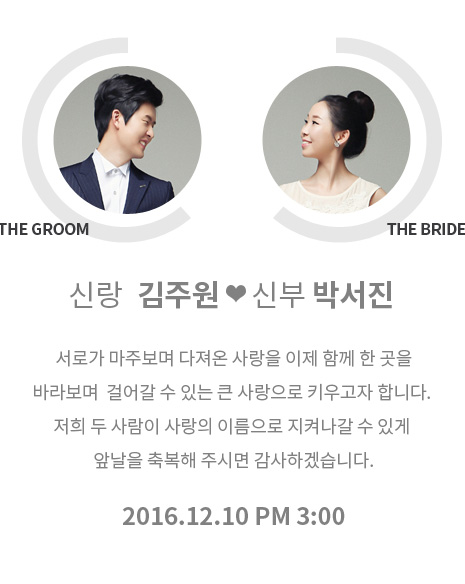
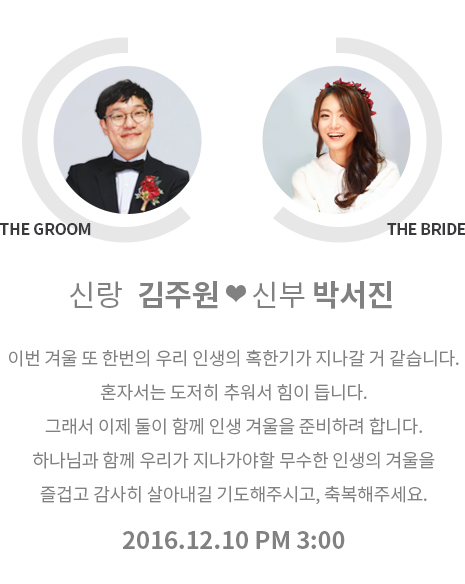
서진누나청첩장 - 사진교체 완료 1. 부모님 전화 사진 변경해야함. 2. 마우스오버 구현해야 함. 3. 카카오톡, 밴드 공유하기 구현해야 함 4. 맨 위에 사진은 둘째치고, Wedding 글씨가 잘림

diff --git a/home/templates/home/psjwedding/w_3.html b/home/templates/home/psjwedding/w_3.html
@@ -19,8 +19,9 @@ body {
 .wrap_3 .bg {
 }
 .wrap_3 .bg img{width:100%;} 
-.photo{ width:580px; height:466px; }
+.photo{ width:580px; height:466px;}
 .photo img{ width:100%;}
+#photo {margin-left: -3px;}
 .thum{  margin-top:37px; height:130px;}
 .thum img {	width:100%;}
 </style>
@@ -50,40 +51,40 @@ body {
       <!-- Wrapper for slides -->
       <div class="carousel-inner" role="listbox">
         <div label=0 id="photo" class="item active">
-          <img src="{% static 'img/wedding-images/w_3/img_2.jpg' %}">
+          <img src="{% static 'img/wedding-images/w_3/img_01.jpg' %}">
         </div>
         <div label=1 id="photo" class="item">
-          <img src="{% static 'img/wedding-images/w_3/out_2.jpg' %}">
+          <img src="{% static 'img/wedding-images/w_3/img_02.jpg' %}">
         </div>
         <div label=2 id="photo" class="item">
-          <img src="{% static 'img/wedding-images/w_3/out_3.jpg' %}">
+          <img src="{% static 'img/wedding-images/w_3/img_03.jpg' %}">
         </div>
         <div label=3 id="photo" class="item">
-          <img src="{% static 'img/wedding-images/w_3/out_4.jpg' %}">
+          <img src="{% static 'img/wedding-images/w_3/img_04.jpg' %}">
         </div>
         <div label=4 id="photo" class="item">
-          <img src="{% static 'img/wedding-images/w_3/img_2.jpg' %}">
+          <img src="{% static 'img/wedding-images/w_3/img_05.jpg' %}">
         </div>
         <div label=5 id="photo" class="item">
-          <img src="{% static 'img/wedding-images/w_3/out_2.jpg' %}">
+          <img src="{% static 'img/wedding-images/w_3/img_06.jpg' %}">
         </div>
         <div label=6 id="photo" class="item">
-          <img src="{% static 'img/wedding-images/w_3/out_3.jpg' %}">
+          <img src="{% static 'img/wedding-images/w_3/img_07.jpg' %}">
         </div>
         <div label=7 id="photo" class="item">
-          <img src="{% static 'img/wedding-images/w_3/out_4.jpg' %}">
+          <img src="{% static 'img/wedding-images/w_3/img_08.jpg' %}">
         </div>
         <div label=8 id="photo" class="item">
-          <img src="{% static 'img/wedding-images/w_3/img_2.jpg' %}">
+          <img src="{% static 'img/wedding-images/w_3/img_09.jpg' %}">
         </div>
         <div label=9 id="photo" class="item">
-          <img src="{% static 'img/wedding-images/w_3/out_2.jpg' %}">
+          <img src="{% static 'img/wedding-images/w_3/img_10.jpg' %}">
         </div>
         <div label=10 id="photo" class="item">
-          <img src="{% static 'img/wedding-images/w_3/out_3.jpg' %}">
+          <img src="{% static 'img/wedding-images/w_3/img_11.jpg' %}">
         </div>
         <div label=11 id="photo" class="item">
-          <img src="{% static 'img/wedding-images/w_3/out_4.jpg' %}">
+          <img src="{% static 'img/wedding-images/w_3/img_12.jpg' %}">
         </div>
       </div>
 
@@ -110,26 +111,26 @@ body {
  -->   
     <div id="thum_div" style="margin-top:20px;">
       <center>
-          <img id="thum_img" label="0" src="{% static 'img/wedding-images/w_3/out_1.jpg' %}" />&nbsp;
-          <img id="thum_img" label="1" src="{% static 'img/wedding-images/w_3/out_2.jpg' %}" />&nbsp;
-          <img id="thum_img" label="2" src="{% static 'img/wedding-images/w_3/out_3.jpg' %}" />&nbsp;
-          <img id="thum_img" label="3" src="{% static 'img/wedding-images/w_3/out_4.jpg' %}" />
+          <img id="thum_img" label="0" src="{% static 'img/wedding-images/w_3/out_01.jpg' %}" />&nbsp;
+          <img id="thum_img" label="1" src="{% static 'img/wedding-images/w_3/out_02.jpg' %}" />&nbsp;
+          <img id="thum_img" label="2" src="{% static 'img/wedding-images/w_3/out_03.jpg' %}" />&nbsp;
+          <img id="thum_img" label="3" src="{% static 'img/wedding-images/w_3/out_04.jpg' %}" />
       </center>
     </div>
     <div id="thum_div" style="margin-top:20px;">
       <center>
-          <img id="thum_img" label="4" src="{% static 'img/wedding-images/w_3/out_1.jpg' %}" />&nbsp;
-          <img id="thum_img" label="5" src="{% static 'img/wedding-images/w_3/out_2.jpg' %}" />&nbsp;
-          <img id="thum_img" label="6" src="{% static 'img/wedding-images/w_3/out_3.jpg' %}" />&nbsp;
-          <img id="thum_img" label="7" src="{% static 'img/wedding-images/w_3/out_4.jpg' %}" />
+          <img id="thum_img" label="4" src="{% static 'img/wedding-images/w_3/out_05.jpg' %}" />&nbsp;
+          <img id="thum_img" label="5" src="{% static 'img/wedding-images/w_3/out_06.jpg' %}" />&nbsp;
+          <img id="thum_img" label="6" src="{% static 'img/wedding-images/w_3/out_07.jpg' %}" />&nbsp;
+          <img id="thum_img" label="7" src="{% static 'img/wedding-images/w_3/out_08.jpg' %}" />
       </center>
     </div>
     <div id="thum_div" style="margin-top:20px;">
       <center>
-          <img id="thum_img" label="8" src="{% static 'img/wedding-images/w_3/out_1.jpg' %}" />&nbsp;
-          <img id="thum_img" label="9" src="{% static 'img/wedding-images/w_3/out_2.jpg' %}" />&nbsp;
-          <img id="thum_img" label="10" src="{% static 'img/wedding-images/w_3/out_3.jpg' %}" />&nbsp;
-          <img id="thum_img" label="11" src="{% static 'img/wedding-images/w_3/out_4.jpg' %}" />
+          <img id="thum_img" label="8" src="{% static 'img/wedding-images/w_3/out_09.jpg' %}" />&nbsp;
+          <img id="thum_img" label="9" src="{% static 'img/wedding-images/w_3/out_10.jpg' %}" />&nbsp;
+          <img id="thum_img" label="10" src="{% static 'img/wedding-images/w_3/out_11.jpg' %}" />&nbsp;
+          <img id="thum_img" label="11" src="{% static 'img/wedding-images/w_3/out_12.jpg' %}" />
       </center>
     </div>
     

diff --git a/home/templates/home/psjwedding/w_2.html b/home/templates/home/psjwedding/w_2.html
@@ -32,10 +32,10 @@ body {
 }
 .call2Sub div{
 	width:90px;
-	display:inline-block; 
+	display:inline-block;
 	text-align:center;
 	font-size:1.5em;
-	color:#666;
+	color:#666;z
 }
 .name2{ margin-left:78px; height:18px; margin-top:9px;}
 .con2{ position:relative;}
@@ -57,43 +57,85 @@ body {
 <div class="wrap_2">
 <div class="w_2">
 	<div class="top2"><img src="{% static 'img/wedding-images/w_2/img_1.jpg' %}" /></div>
-    <div class="pic"><img src="{% static 'img/wedding-images/w_2/img_2.jpg' %}" /></div>
+    <div class="pic"><img src="{% static 'img/wedding-images/w_2/aboutus_main.png' %}" /></div>
 	<div class="title2">
     	<div><img src="{% static 'img/wedding-images/w_2/img_3.jpg' %}" /></div><div><img src="{% static 'img/wedding-images/w_2/img_4.jpg' %}" /></div>
     </div>
     <div class="call2">
 		<div class="call2Sub">
 			<div>
-				<img src="{% static 'img/wedding-images/w_2/call_over_2.jpg' %}" /><br>
-				강명국
+                <a href = "tel:010-8006-4324">
+				    <img src="{% static 'img/wedding-images/w_2/call_over_2.jpg' %}" /><br>
+				    김명국
+                </a>
 			</div>
 			<div>
-				<img src="{% static 'img/wedding-images/w_2/call_out_1.jpg' %}" /><br>
-				<img src="{% static 'img/wedding-images/w_2/name.jpg' %}" />
+                <a href = "tel:010-2493-9635">
+				    <img src="{% static 'img/wedding-images/w_2/call_out_1.jpg' %}" /><br>
+				    김명순
+                </a>
 			</div>
 		</div><div class="call2Sub">
 			<div>
-				<img src="{% static 'img/wedding-images/w_2/call_out_2.jpg' %}" /><br>
-				<img src="{% static 'img/wedding-images/w_2/name.jpg' %}" />
+                <a href = "tel:010-4852-2050">
+				    <img src="{% static 'img/wedding-images/w_2/call_out_03.jpg' %}" /> <br>
+				    박영규
+                </a>
 			</div>
 			<div>
-				<img src="{% static 'img/wedding-images/w_2/call_out_1.jpg' %}" /><br>
-				<img src="{% static 'img/wedding-images/w_2/name.jpg' %}" />
+                <a href = "tel:010-3372-6512">
+				    <img src="{% static 'img/wedding-images/w_2/call_out_04.jpg' %}" /><br>
+				    강필선
+                </a>
 			</div>
 		</div>
     </div>
 
     <div class="con2">
     	<div class="icon">
-    		<div style="margin-left:18px;"><img src="{% static 'img/wedding-images/w_2/icon_mail.jpg' %}" /></div>
-        	<div style=" margin-top:30px;"><img src="{% static 'img/wedding-images/w_2/icon_call.jpg' %}" /></div>
-        	<div style="margin-left:7px; margin-top:29px;"><img src="{% static 'img/wedding-images/w_2/icon_talk.jpg' %}" /></div>
+    		<div style="margin-left:18px;">
+                <a href="mailto:alphalotus@me.com">
+                    <img src="{% static 'img/wedding-images/w_2/icon_mail.jpg' %}" />
+                </a>
+            </div>
+
+        	<div style=" margin-top:30px;">
+                <a href = "tel:010-2688-4973">
+                    <img src="{% static 'img/wedding-images/w_2/icon_call.jpg' %}" />
+                </a>
+            </div>
+
+        	<div style="margin-left:7px; margin-top:29px;">
+                <a href="sms:010-2688-4973">
+                    <img src="{% static 'img/wedding-images/w_2/icon_talk.jpg' %}" />
+                </a>
+            </div>
     	</div>
+
+
+
         <div class="hi2"><img src="{% static 'img/wedding-images/w_2/img_5.jpg' %}" /></div>
+        
+
+
         <div class="icon2">
-    		<div><img src="{% static 'img/wedding-images/w_2/icon_mail.jpg' %}" /></div>
-        	<div style=" margin-left:16px; margin-top:30px;"><img src="{% static 'img/wedding-images/w_2/icon_call2.jpg' %}" /></div>
-        	<div style="margin-left:8px; margin-top:32px;"><img src="{% static 'img/wedding-images/w_2/icon_talk2.jpg' %}" /></div>
+    		<div>
+                <a href="mailto:sjining@daum.net">
+                    <img src="{% static 'img/wedding-images/w_2/icon_mail.jpg' %}" />
+                </a>
+            </div>
+
+        	<div style=" margin-left:16px; margin-top:30px;">
+                <a href = "tel:010-9270-0916">
+                    <img src="{% static 'img/wedding-images/w_2/icon_call2.jpg' %}" />
+                </a>
+            </div>
+
+        	<div style="margin-left:8px; margin-top:32px;">
+                <a href="sms:010-9270-0916">
+                    <img src="{% static 'img/wedding-images/w_2/icon_talk2.jpg' %}" />
+                </a>
+            </div>
     	</div>
     </div>
 </div>

diff --git a/home/templates/home/psjwedding/w_1.html b/home/templates/home/psjwedding/w_1.html
@@ -15,11 +15,13 @@ body {
 	margin-right: 0px;
 	margin-bottom: 0px;
 }
+#photo {width:636px;margin-left: -3px;}
 .wrap_1{ width:100%; min-height:100%; position:relative;}
-.wrap_1 .bg {
+
+.wrap_1 .bg { height: 1100px;
 }
-.wrap_1 .bg img{width:100%;}  
-.w_1{ position:absolute;left:0; top:0;min-width:375px;  width:100%; height:1136px; z-index:10}
+.wrap_1 .bg img{width:100%; height: 1100px}  
+.w_1{ position:absolute;left:0; top:0;min-width:375px;  width:100%; height:1050px; z-index:10}
 .top{ position:absolute;width:calc(100% - 60px); height:66px; margin-top:32px; margin-left:30px; border:1px }
 .day{ width:146px; height:145px; }
 .day img{ width:100%;}
@@ -45,8 +47,8 @@ body {
 
 <!--  w_1 -->
 <div class="wrap_1">
-	<div class="top">
-    	<div style="float:left; height:66px;"><img src="{% static 'img/wedding-images/w_1/img_1.png' %}" /></div>
+	<div class="top" >
+    	<div style="float:left; height:66px;margin-top: 500px;"><img src="{% static 'img/wedding-images/w_1/img_1.png' %}" /></div>
         <div style=" float:right;margin-left:10px; height:66px;"><img src="{% static 'img/wedding-images/w_1/img_3.png' %}" /></div>
         <div style=" float:right; height:66px;"><img src="{% static 'img/wedding-images/w_1/img_2.png' %}" /></div>
    </div>
@@ -58,17 +60,56 @@ body {
 
 	   <div class="time"><img src="{% static 'img/wedding-images/w_1/img_5.png' %}" /></div>  
 	   <div class="weather"><img src="{% static 'img/wedding-images/w_1/img_6.png' %}" /></div>  
-	   <div class="btn">
+<!-- 	   <div class="btn">
 			<a href=""><img src="{% static 'img/wedding-images/w_1/over.png' %}" /></a>
 			<a href=""><img src="{% static 'img/wedding-images/w_1/out.png' %}" /></a>
 			<a href=""><img src="{% static 'img/wedding-images/w_1/out.png' %}" /></a>
 			<a href=""><img src="{% static 'img/wedding-images/w_1/out.png' %}" /></a>
 			<a href=""><img src="{% static 'img/wedding-images/w_1/out.png' %}" /></a>
-	   </div>
+	   </div> -->
 
    </div>
- <div class="bg"><img src="{% static 'img/wedding-images/w_1/bg.jpg' %}"></div>
+ <!-- <div class="bg"><img src="{% static 'img/wedding-images/w_1/bg.jpg' %}"></div> -->
+
+ <div id="carousel-example-generic" class="carousel slide" data-ride="carousel">
+      <!-- Indicators -->
+      <ol class="carousel-indicators">
+        <li data-target="#carousel-example-generic" data-slide-to="0" class="active"></li>
+        <li data-target="#carousel-example-generic" data-slide-to="1"></li>
+        <li data-target="#carousel-example-generic" data-slide-to="2"></li>
+        <li data-target="#carousel-example-generic" data-slide-to="3"></li>
+      </ol>
+
+      <!-- Wrapper for slides -->
+      <div class="carousel-inner bg" role="listbox">
+        <div label=0 id="photo" class="item active">
+          <img src="{% static 'img/wedding-images/w_1/main_01.jpg' %}">
+        </div>
+        <div label=1 id="photo" class="item">
+          <img src="{% static 'img/wedding-images/w_1/main_02.jpg' %}">
+        </div>
+        <div label=2 id="photo" class="item">
+          <img src="{% static 'img/wedding-images/w_1/main_03.jpg' %}">
+        </div>
+        <div label=3 id="photo" class="item">
+          <img src="{% static 'img/wedding-images/w_1/main_04.jpg' %}">
+        </div>
+      </div>
+
+      <!-- Controls -->
+      <a class="carousel-control left" href="#carousel-example-generic" role="button" data-slide="prev">
+        <span class="glyphicon glyphicon-chevron-left" aria-hidden="true"></span>
+        <span class="sr-only">Previous</span>
+      </a>
+      <a class="carousel-control right" href="#carousel-example-generic" role="button" data-slide="next">
+        <span class="glyphicon glyphicon-chevron-right" aria-hidden="true"></span>
+        <span class="sr-only">Next</span>
+      </a>
+</div>
+
+
  <div style="clear:both"></div>
+
 </div>  
 
 <script src="{% static 'js/jquery.js' %}"></script>

diff --git a/home/templates/home/psjwedding/w_6.html b/home/templates/home/psjwedding/w_6.html
@@ -17,7 +17,7 @@ body {
 	margin-bottom: 0px;
 }
 .wrap_6{ position:relative; min-height:100%; }
-.w_6{   position:absolute;left:0;top:0; margin:0 30px; width:calc(100% - 60px); height:836px; }
+.w_6{   position:absolute;left:0;top:0; margin:0 30px; width:calc(100% - 60px); height:1200px; }
 .top6{}
 .top6 img{ width:100%;}
 .sns{  margin-top:40px; margin-left: 80px;} 
@@ -31,7 +31,7 @@ body {
 <!--  w_6 -->
 <div class="wrap_6">
 <div class="w_6">
-	<div class="top6"><img src="{% static 'img/wedding-images/w_6/img_1.jpg' %}" /></div>
+	<div class="top6"><img src="{% static 'img/wedding-images/w_6/img_thankyou.jpg' %}" /></div>
 	<div class="sns">
     	<div style="float:left; "><img onclick="facebook_share()" style="cursor: pointer;" src="{% static 'img/wedding-images/w_6/sns_1.jpg' %}" /></div>
         <div style="float:left; margin-left:10px"><img onclick="twitter_share()" style="cursor: pointer;" src="{% static 'img/wedding-images/w_6/sns_2.jpg' %}" /></div>
@@ -40,11 +40,12 @@ body {
         <div style="float:left; margin-left:10px""><img src="{% static 'img/wedding-images/w_6/sns_5.jpg' %}" /></div>
         
     </div>
+    <div class="footer" style="margin-top:200px; position:relative;"><img src="{% static 'img/wedding-images/w_6/footer.jpg' %}" /></div>
 	
 </div>
 </div> 
 
-<div class="footer"><img src="{% static 'img/wedding-images/w_6/footer.jpg' %}" /></div>
+
    
 <script>
 function facebook_share(){

diff --git a/home/templates/home/psjwedding/wedding.html b/home/templates/home/psjwedding/wedding.html
@@ -20,12 +20,12 @@ body {
 <body>
 
 
-<iframe src="{% url 'w_1' %}" width="100%" height="1070" scrolling="no" frameborder="0"></iframe>
+<iframe src="{% url 'w_1' %}" width="100%" height="1200" scrolling="no" frameborder="0"></iframe>
 <iframe src="{% url 'w_2' %}" width="100%" height="1136" scrolling="no" frameborder="0"></iframe>
-<iframe src="{% url 'w_3' %}" width="100%" height="1150" scrolling="no" frameborder="0"></iframe>
+<iframe src="{% url 'w_3' %}" width="100%" height="1100" scrolling="no" frameborder="0"></iframe>
 <!-- <iframe src="{% url 'w_4' %}" width="100%" height="1063" scrolling="no" frameborder="0"></iframe> -->
-<iframe src="{% url 'w_5' %}" style="margin-top: -100px;" width="100%" height="1250" scrolling="no" frameborder="0"></iframe>
-<iframe src="{% url 'w_6' %}" width="100%" height="1140" scrolling="no" frameborder="0"></iframe>
+<iframe src="{% url 'w_5' %}" style="margin-top: -0px;" width="100%" height="1250" scrolling="no" frameborder="0"></iframe>
+<iframe src="{% url 'w_6' %}" width="100%" height="1250" scrolling="no" frameborder="0"></iframe>
 
 
 
